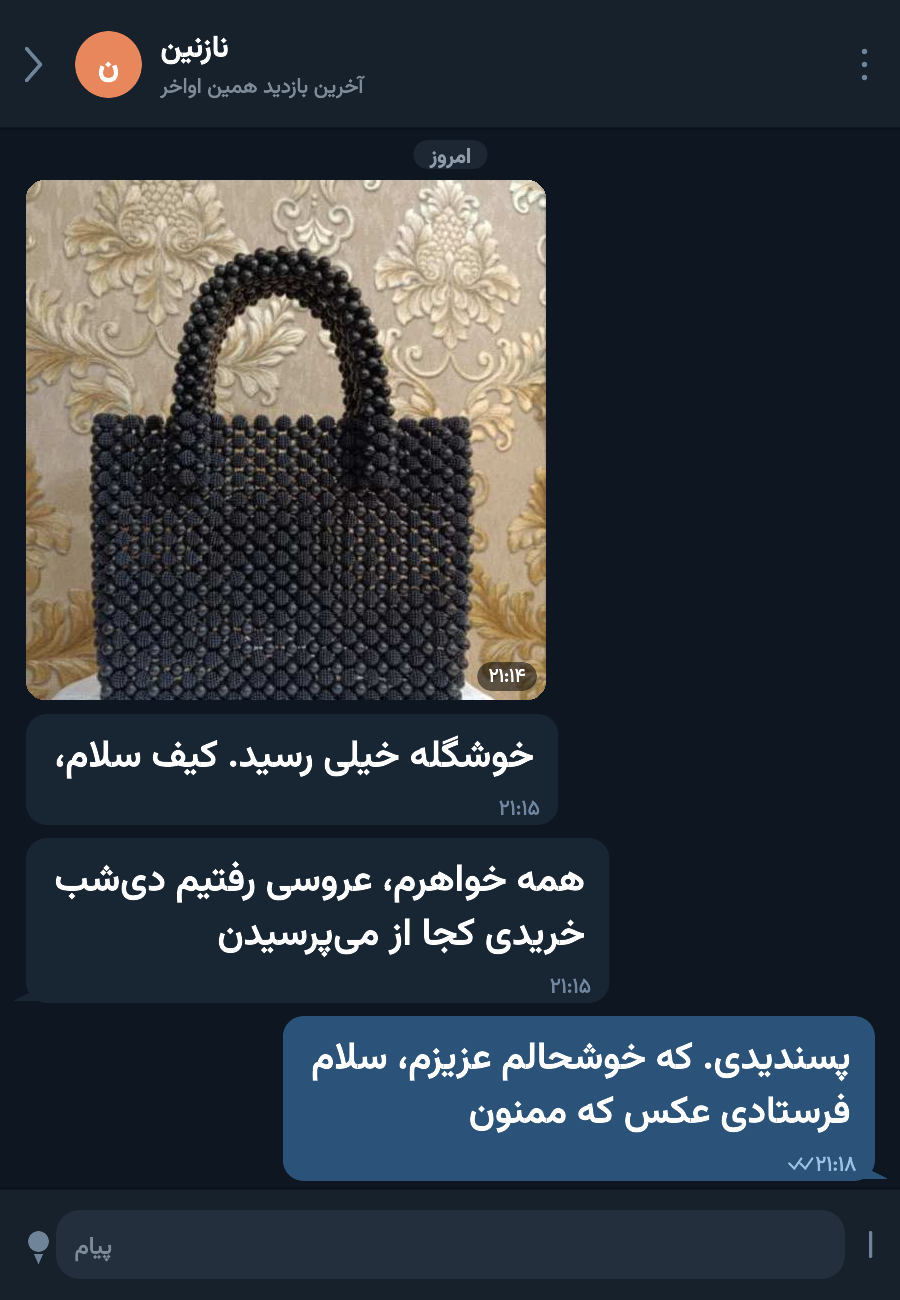
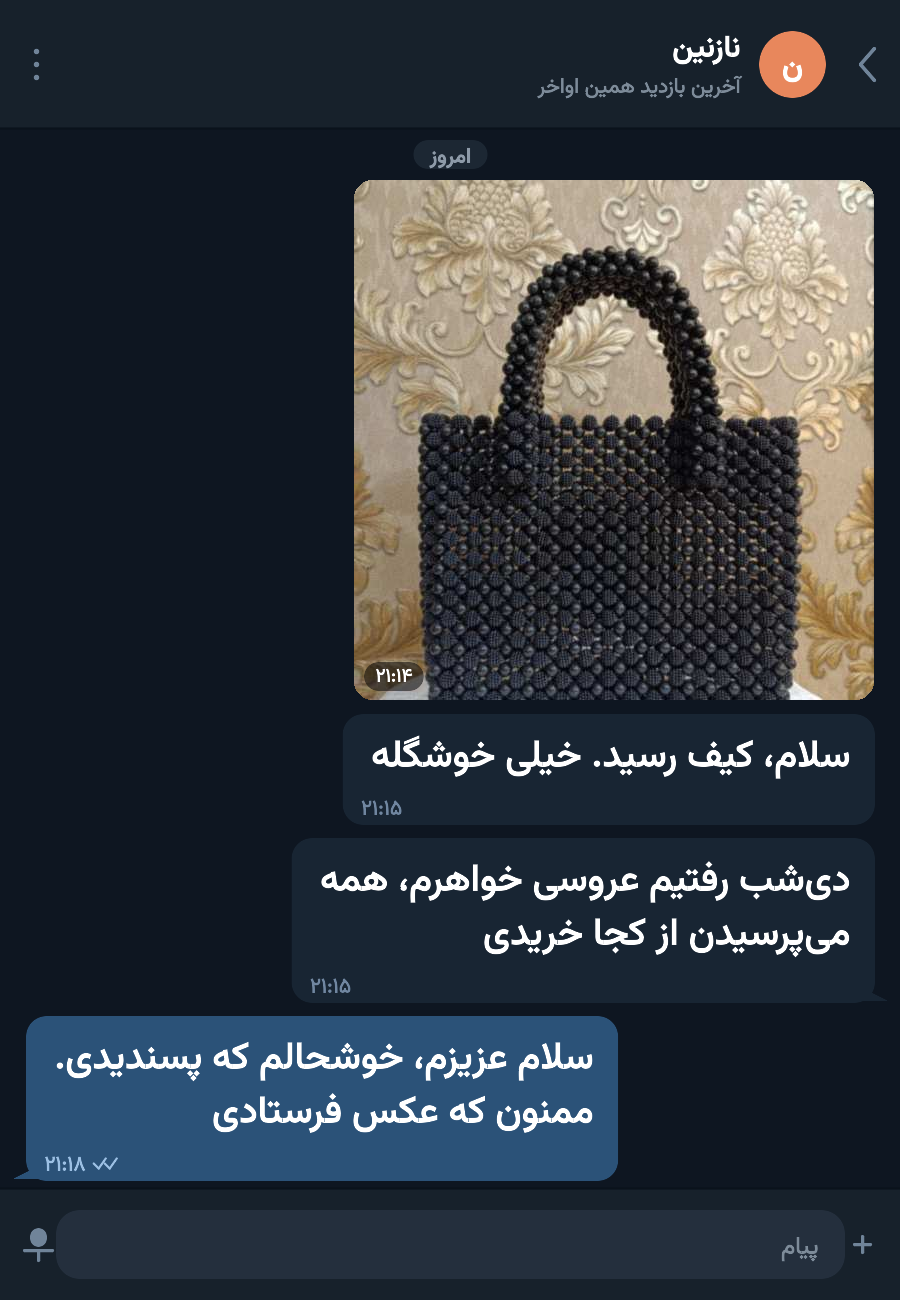
fix(social): lay out bubble text right-to-left and mirror the chat for Persian
The token loop in Shot.draw_bubble advanced left-to-right from the line's left
edge, so every sentence was rendered word-reversed. Text now starts at the right
edge and walks left, and the whole card is mirrored like a Persian Telegram:
customer bubbles on the right, shop bubbles on the left, back arrow pointing
right, timestamps at the bottom-left. Also fixes the voice bubble layout
(play arrow, duration/time kept inside), the input bar icons and the photo time
pill; re-renders all four testimonial screenshots.

diff --git a/tools/social-shots/shots.py b/tools/social-shots/shots.py
@@ -281,6 +281,14 @@ THEMES = {
 
 # --------------------------------------------------------------- the screen
 class Shot:
+    """Persian (RTL) Telegram-like chat card.
+
+    Everything is mirrored the way a Persian Telegram looks: the customer's
+    messages hug the RIGHT edge, the shop's own messages the LEFT, the back
+    arrow points right, timestamps sit at the bottom-LEFT of every bubble and
+    the words inside a line run right-to-left.
+    """
+
     def __init__(self, spec):
         self.spec = spec
         self.t = THEMES[spec.get("theme", "dark")]
@@ -324,9 +332,34 @@ class Shot:
         self.H = int(y + self.INPUT_H - 6)
 
     def x_of(self, it):
+        """Incoming (customer) hugs the right edge, outgoing hugs the left."""
         if it.get("side", "in") == "in":
-            return self.PAD
-        return self.W - self.PAD - it["w"]
+            return self.W - self.PAD - it["w"]
+        return self.PAD
+
+    # ---------------- text helpers
+    def text_width(self, text, size, weight="regular"):
+        toks = text.split()
+        if not toks:
+            return 0
+        sp = space_width(size, weight)
+        return sum(token_metrics(t, size, weight)[0] for t in toks) + sp * (len(toks) - 1)
+
+    def write_rtl(self, mvg, text, size, weight, color, x_right, baseline):
+        """One line laid out right-to-left: the first word ends at `x_right`."""
+        tokens = text.split()
+        if not tokens:
+            return 0
+        sp = space_width(size, weight)
+        metrics = [token_metrics(t, size, weight) for t in tokens]
+        total = sum(w for w, _ in metrics) + sp * (len(tokens) - 1)
+        cursor = x_right
+        for w, placed in metrics:
+            cursor -= w
+            for dx, d in placed:
+                mvg.text(d, color, cursor + dx, baseline)
+            cursor -= sp
+        return total
 
     # ---------------- draw
     def draw(self, out_png, photos=None):
@@ -335,28 +368,27 @@ class Shot:
         txt = MVG(W, H)
         base.rect(0, 0, W, H, t["chat"])
 
-        # ---- header
+        # ---- header (mirrored: back arrow + avatar on the right)
         base.rect(0, 0, W, self.HEADER_H, t["header"])
         base.line(0, self.HEADER_H, W, self.HEADER_H, t["hair"], 2)
-        base.line(26, 48, 40, self.HEADER_H / 2, t["icon"], 3)
-        base.line(26, self.HEADER_H - 48, 40, self.HEADER_H / 2, t["icon"], 3)
-        base.circle(108, self.HEADER_H / 2, 33, self.spec.get("avatar", "#e8875c"))
+        base.line(W - 26, 48, W - 40, self.HEADER_H / 2, t["icon"], 3)
+        base.line(W - 26, self.HEADER_H - 48, W - 40, self.HEADER_H / 2, t["icon"], 3)
+        base.circle(W - 108, self.HEADER_H / 2, 33, self.spec.get("avatar", "#e8875c"))
         d, w = face("bold").shape(self.spec.get("initial", "؟"), 30)
-        txt.text(d, "#ffffff", 108 - w / 2, self.HEADER_H / 2 + 11)
-        d, _ = face("semibold").shape(self.spec.get("name", ""), 30)
-        txt.text(d, t["text"], 160, 56)
-        d, _ = face("regular").shape(self.spec.get("status", ""), 21)
-        txt.text(d, t["dim"], 160, 92)
+        txt.text(d, "#ffffff", W - 108 - w / 2, self.HEADER_H / 2 + 11)
+        self.write_rtl(txt, self.spec.get("name", ""), 30, "semibold", t["text"], W - 160, 56)
+        self.write_rtl(txt, self.spec.get("status", ""), 21, "regular", t["dim"], W - 160, 92)
         for i in range(3):
-            base.circle(W - 36, self.HEADER_H / 2 - 13 + i * 13, 2.4, t["icon"])
+            base.circle(36, self.HEADER_H / 2 - 13 + i * 13, 2.4, t["icon"])
 
         # ---- date chip
         label = self.spec.get("date", "امروز")
-        d, dw = face("medium").shape(label, 21)
+        _, dw = face("medium").shape(label, 21)
         chip_w = dw + 32
         cx = W / 2 - chip_w / 2
         base.round_rect(cx, self.HEADER_H + 12, cx + chip_w, self.HEADER_H + 40, 14, t["date_bg"])
-        txt.text(d, t["date_fg"], cx + 16, self.HEADER_H + 34)
+        self.write_rtl(txt, label, 21, "medium", t["date_fg"], cx + chip_w - 16,
+                       self.HEADER_H + 34)
 
         # ---- messages
         for it in self.items:
@@ -364,20 +396,18 @@ class Shot:
                 continue
             self.draw_bubble(base, txt, it)
 
-        # ---- input bar
+        # ---- input bar (mirrored: mic on the left, attach on the right)
         iy = H - self.INPUT_H
+        cym = iy + self.INPUT_H / 2
         base.rect(0, iy, W, H, t["input_bg"])
         base.line(0, iy, W, iy, t["hair"], 2)
         base.round_rect(56, iy + 22, W - 56, iy + self.INPUT_H - 22, 23, t["input_field"])
-        base.line(W - 30, iy + 44, W - 30, iy + self.INPUT_H - 44, t["icon"], 3)
-        base.circle(38, iy + self.INPUT_H / 2 - 3, 10, t["icon"])
-        base.poly(
-            [(34, iy + self.INPUT_H / 2 + 10), (42, iy + self.INPUT_H / 2 + 10),
-             (38, iy + self.INPUT_H / 2 + 19)],
-            t["icon"],
-        )
-        d, _ = face("regular").shape("پیام", 24)
-        txt.text(d, t["dim"], 74, iy + self.INPUT_H / 2 + 9)
+        base.line(W - 46, cym, W - 30, cym, t["icon"], 3)
+        base.line(W - 38, cym - 8, W - 38, cym + 8, t["icon"], 3)
+        base.round_rect(30, cym - 16, 46, cym + 2, 8, t["icon"])
+        base.line(24, cym + 6, 52, cym + 6, t["icon"], 3)
+        base.line(38, cym + 6, 38, cym + 16, t["icon"], 3)
+        self.write_rtl(txt, "پیام", 24, "regular", t["dim"], W - 82, cym + 9)
 
         tmpdir = tempfile.mkdtemp(prefix="shot_")
         canvas = Image.open(
@@ -390,120 +420,84 @@ class Shot:
                 continue
             img = prep_photo(photos[it["photo"]], it["w"], seed=it.get("seed", 1),
                              crop=it.get("crop", "center"))
-            x = self.x_of(it)
-            canvas.alpha_composite(img, (x, it["y"]))
+            canvas.alpha_composite(img, (self.x_of(it), it["y"]))
 
-        # ---- photo time pills (drawn with the text layer, above the photo)
         for it in self.items:
             if it["kind"] != "photo" or not photos or it.get("photo") not in photos:
                 continue
             self.draw_photo_pill(txt, it)
 
-        # ---- text
         canvas.alpha_composite(
             Image.open(render_mvg(txt, os.path.join(tmpdir, "txt.png"), W, H)).convert("RGBA")
         )
         canvas.convert("RGB").save(out_png, optimize=True)
         return out_png
 
-    def write_rtl(self, mvg, text, size, weight, color, x_right, baseline):
-        """Lay out one line right-to-left (digits stay left-to-right)."""
-        tokens = text.split()
-        if not tokens:
-            return 0
-        sp = space_width(size, weight)
-        metrics = [token_metrics(t, size, weight) for t in tokens]
-        total = sum(w for w, _ in metrics) + sp * (len(tokens) - 1)
-        cursor = x_right - total
-        for w, placed in metrics:
-            for dx, d in placed:
-                mvg.text(d, color, cursor + dx, baseline)
-            cursor += w + sp
-        return total
-
-    def draw_label(self, txt, label, x_left, baseline, color):
-        """Left-aligned RTL label (the `edited` mark sits on the left of a bubble)."""
-        sp = space_width(22, "semibold")
-        metrics = [token_metrics(tk, 22, "semibold") for tk in label.split()]
-        c = x_left
-        for w, placed in metrics:
-            for dx, d in placed:
-                txt.text(d, color, c + dx, baseline)
-            c += w + sp
-
     def draw_photo_pill(self, txt, it):
         label = it.get("time", "")
-        sp = space_width(19, "regular")
-        tw = sum(token_metrics(t, 19, "regular")[0] for t in label.split())
+        tw = self.text_width(label, 19, "regular")
         pw, ph = tw + 22, 28
-        x = self.x_of(it) + it["w"] - 10 - pw
-        y = self.y_photo_pill(it)
+        x = self.x_of(it) + 10
+        y = it["y"] + it["h"] - 10 - ph
         txt.round_rect(x, y, x + pw, y + ph, ph / 2, "#000000", 0.52)
         self.write_rtl(txt, label, 19, "regular", "#ffffff", x + pw - 11, y + 19)
 
     # ---------------- one message
-    def y_photo_pill(self, it):
-        return it["y"] + it["h"] - 10 - 28
-
     def draw_bubble(self, base, txt, it):
         t = self.t
         x = self.x_of(it)
         out = it.get("side", "in") == "out"
         fill = t["bubble_out"] if out else t["bubble_in"]
-        tail = it.get("tail", True)
         base.round_rect(x, it["y"], x + it["w"], it["y"] + it["h"], self.RADIUS, fill)
 
         if it["kind"] == "voice":
             cy = it["y"] + 42
-            base.circle(x + 42, cy, 22, t["accent"])
-            base.poly([(x + 35, cy - 10), (x + 35, cy + 10), (x + 51, cy)], "#ffffff")
+            base.circle(x + it["w"] - 42, cy, 22, t["accent"])
+            base.poly([(x + it["w"] - 51, cy - 10), (x + it["w"] - 51, cy + 10),
+                       (x + it["w"] - 33, cy)], "#ffffff")
             rnd = random.Random(3)
             for i in range(22):
                 bh = rnd.choice([8, 14, 20, 28, 34, 24, 16])
-                bx = x + 84 + i * 7.4
+                bx = x + it["w"] - 86 - i * 7.4
                 base.round_rect(bx, cy - bh / 2, bx + 3, cy + bh / 2, 1.5,
                                 t["accent"] if i < 13 else t["dim"])
-            self.write_rtl(txt, it.get("dur", "۰:۱۹"), 20, "medium", t["time_in"],
-                           x + it["w"] - 16, cy + 7)
+            dur = it.get("dur", "۰:۱۹")
+            dw = self.text_width(dur, 20, "medium")
+            self.write_rtl(txt, dur, 20, "medium", t["time_in"], x + 16 + dw, cy + 7)
+            tww = self.text_width(it.get("time", ""), self.TS, "regular")
             self.write_rtl(txt, it.get("time", ""), self.TS, "regular", t["time_in"],
-                           x + it["w"] - 18, it["y"] + it["h"] - 12)
+                           x + 18 + tww, it["y"] + it["h"] - 12)
             return
 
+        # body: words run right-to-left, first word at the right edge
         ty = it["y"] + self.BPAD_Y + self.FS
         for ln in it["lines"]:
-            sp = space_width(self.FS)
-            total = line_width(ln, self.FS)
-            cursor = x + it["w"] - self.BPAD_X - total
-            for tok in ln:
-                w, placed = token_metrics(tok, self.FS)
-                for dx, d in placed:
-                    txt.text(d, t["text"], cursor + dx, ty)
-                cursor += w + sp
+            self.write_rtl(txt, " ".join(ln), self.FS, "medium", t["text"],
+                           x + it["w"] - self.BPAD_X, ty)
             ty += self.LH
 
-        # time (+ ticks) at the bottom-right corner of the bubble
+        # timestamp bottom-left, ticks just to its right
         time_s = it.get("time", "")
         ty_time = it["y"] + it["h"] - 10
-        tw = sum(token_metrics(t, self.TS, "regular")[0] for t in time_s.split())
-        tw += space_width(self.TS, "regular") * max(0, len(time_s.split()) - 1)
+        tw = self.text_width(time_s, self.TS, "regular")
         self.write_rtl(txt, time_s, self.TS, "regular",
-                       t["time_out"] if out else t["time_in"],
-                       x + it["w"] - 18, ty_time)
-        tx = x + it["w"] - 18 - tw
+                       t["time_out"] if out else t["time_in"], x + 18 + tw, ty_time)
         if out:
             for k in range(2):
-                bx = tx - 26 + k * 11
+                bx = x + 18 + tw + 8 + k * 11
                 base.line(bx, ty_time - 7, bx + 5, ty_time - 2, t["time_out"], 2)
                 base.line(bx + 5, ty_time - 2, bx + 12, ty_time - 12, t["time_out"], 2)
         if it.get("label"):
-            lw = sum(token_metrics(tk, 22, "semibold")[0] for tk in it["label"].split())
-            self.draw_label(txt, it["label"], x + 20, ty_time, t["dim"])
-        if tail:
+            self.write_rtl(txt, it["label"], 22, "semibold", t["dim"],
+                           x + it["w"] - 20, ty_time)
+
+        # bubble tail on the outer edge
+        if it.get("tail", True):
             if out:
-                base.poly([(x + it["w"] - 16, it["y"] + it["h"] - 16),
-                           (x + it["w"] + 12, it["y"] + it["h"] - 2),
-                           (x + it["w"] - 16, it["y"] + it["h"] - 2)], fill)
-            else:
                 base.poly([(x + 16, it["y"] + it["h"] - 16),
                            (x - 12, it["y"] + it["h"] - 2),
                            (x + 16, it["y"] + it["h"] - 2)], fill)
+            else:
+                base.poly([(x + it["w"] - 16, it["y"] + it["h"] - 16),
+                           (x + it["w"] + 12, it["y"] + it["h"] - 2),
+                           (x + it["w"] - 16, it["y"] + it["h"] - 2)], fill)

diff --git a/tools/social-shots/make.py b/tools/social-shots/make.py
@@ -45,7 +45,7 @@ SPECS = {
         initial="ز", avatar="#7c8fd6", date="امروز",
         messages=[
             dict(kind="photo", side="in", photo="pastel", seed=33, time="۱۰:۳۲", tail=False),
-            dict(kind="text", side="in", text="سلام کیف رسید، رنگهاش خیلی نازه", time="۱۰:۳۳", tail=False),
+            dict(kind="text", side="in", text="سلام، کیف رسید. رنگهاش خیلی نازه", time="۱۰:۳۳", tail=False),
             dict(kind="text", side="in", text="از نزدیک قشنگتر از عکسه", time="۱۰:۳۴", tail=True),
             dict(kind="text", side="out", text="ممنون زهرا جان، خوشحالم که راضی بودی", time="۱۰:۳۶",
                  label="ویرایش شده"),

diff --git a/tools/social-shots/README.md b/tools/social-shots/README.md
@@ -3,6 +3,11 @@
 Generator for the four "customer chat" images published in the Telegram channel
 `@Auralis_Pearl` (posts 19–22, re-issued as 23–26).
 
+The chat is mirrored the way a Persian Telegram looks: the customer's messages
+hug the **right** edge, the shop's own messages the **left**, the back arrow
+points right and timestamps sit at the bottom-left of each bubble. Words inside
+a line are laid out right-to-left (first word ends at the right edge).
+
 The Persian text is **shaped with HarfBuzz** (the same engine browsers use) and
 emitted as SVG paths, so joining, bidi and word order are correct. Numbers
 (`۱۲:۰۶`, `۰:۱۹`, `۱٬۷۰۰٬۰۰۰`) are shaped left-to-right. The images are 900 px
